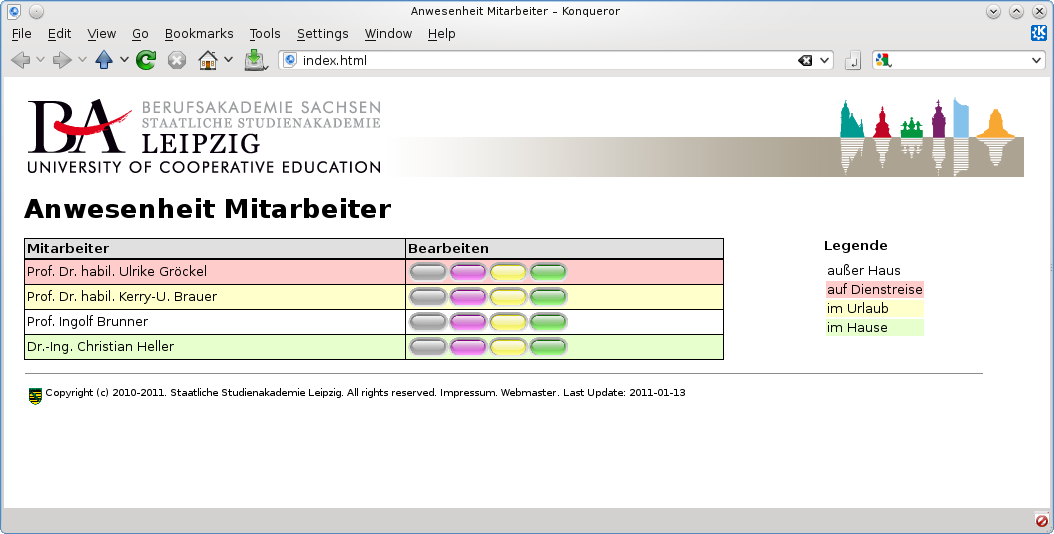
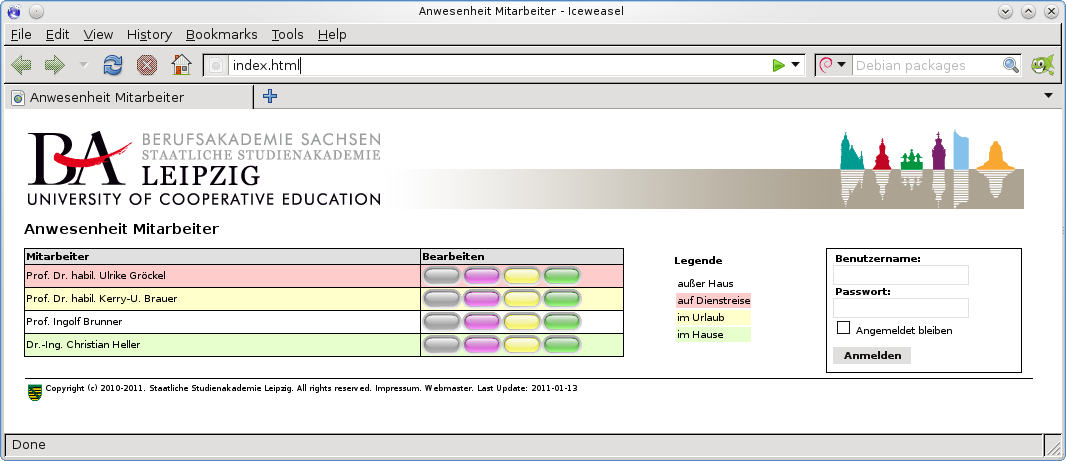
* Complete prototype website for application "presence"
git-svn-id: svn+ssh://svn.savannah.nongnu.org/cybop/trunk@1407 b5c8ebf9-7d75-0410-a1b1-c26d7bff6aa0

diff --git a/examples/presence/prototype/index.html b/examples/presence/prototype/index.html
@@ -13,27 +13,6 @@
         <div id="header">
             <img src="ba-leipzig.png" alt="BA Leipzig"/>
         </div>
-        <div id="login">
-            <form action="http://www.ba-leipzig.de/?action=presence" method="post" name="loginform" id="headlogin">
-                <fieldset>
-                    <input type="hidden" name="op" value="login">
-                    <input type="hidden" name="dest" value="/de/">
-                    <div id="username">
-                        <label id="username-label" for="username-field">Benutzername:</label><br/>
-                        <input id="username-field" type="text" name="login_username" value="" maxlength="80"  tabindex="1"/>
-                    </div>
-                    <div id="password">
-                        <label id="password-label" for="password-field">Passwort:</label><br/>
-                        <input id="password-field" type="password" name="login_password" value="" maxlength="80" tabindex="2"/>
-                    </div>
-                    <input id="remember-field" type="checkbox" name="permanent" tabindex="3"/>
-                    <label id="remember-label" for="remember-field">Angemeldet bleiben</label>
-                    <button id="login-button" type="submit" value="login" tabindex="4">
-                        Anmelden
-                    </button>
-                </fieldset>
-            </form>
-        </div>
         <h1>Anwesenheit Mitarbeiter</h1>
         <div id="overview">
             <table>
@@ -46,7 +25,7 @@
                 <tbody>
                     <tr class="businesstrip">
                         <td>Prof. Dr. habil. Ulrike Gr&#246;ckel</td>
-                        <td>
+                        <td class="edit">
                             <a href=""><img src="absence.png" alt="Absence" title="au&#223;er Haus"/></a>
                             <a href=""><img src="businesstrip.png" alt="Business Trip" title="auf Dienstreise"/></a>
                             <a href=""><img src="holiday.png" alt="Holiday" title="im Urlaub"/></a>
@@ -107,6 +86,27 @@
                     </td>
                 </tr>
             </table>
+        </div>
+        <div id="login">
+            <form action="http://www.ba-leipzig.de/?action=presence" method="post" name="loginform" id="headlogin">
+                <fieldset>
+                    <input type="hidden" name="op" value="login">
+                    <input type="hidden" name="dest" value="/de/">
+                    <div id="username">
+                        <label id="username-label" for="username-field">Benutzername:</label><br/>
+                        <input id="username-field" type="text" name="login_username" value="" maxlength="80"  tabindex="1"/>
+                    </div>
+                    <div id="password">
+                        <label id="password-label" for="password-field">Passwort:</label><br/>
+                        <input id="password-field" type="password" name="login_password" value="" maxlength="80" tabindex="2"/>
+                    </div>
+                    <input id="remember-field" type="checkbox" name="permanent" tabindex="3"/>
+                    <label id="remember-label" for="remember-field">Angemeldet bleiben</label>
+                    <button id="login-button" type="submit" value="login" tabindex="4">
+                        Anmelden
+                    </button>
+                </fieldset>
+            </form>
         </div>
         <div id="footer">
             <hr noshade size="1"/>

diff --git a/examples/presence/prototype/presence.css b/examples/presence/prototype/presence.css
@@ -84,10 +84,10 @@ div#page a:active {
 }
 
 div#overview table {
-    background-color: #000000;
-    width: 700px;
     float: left;
+    width: 600px;
     border-spacing: 1px;
+    background-color: #000000;
 }
 
 div#overview tr {
@@ -109,11 +109,31 @@ div#overview img {
     height: 20px;
 }
 
-#login {
-    margin-top: 10px;
-    float: right;
+div#overview .edit {
     width: 200px;
-    height: 20px;
+}
+
+div#legend {
+    float: left;
+    margin-left: 50px;
+    color: #000000;
+}
+
+div#legend h1 {
+    color: #000000;
+    font-size: 1.0em;
+}
+
+#login {
+    float: right;
+    margin-right: 10px;
+    width: 200px;
+}
+
+#login fieldset {
+    border-width: 1px;
+    border-style: solid;
+    border-color: #000000;
 }
 
 #login #username-label, #login #password-label {
@@ -145,17 +165,6 @@ div#overview img {
     border-color: #E0E0E0;
     font-size: 10px;
     font-weight: bold;
-}
-
-div#legend {
-    margin-top: 100px;
-    float: right;
-    color: #000000;
-}
-
-div#legend h1 {
-    color: #000000;
-    font-size: 1.0em;
 }
 
 div#footer {
